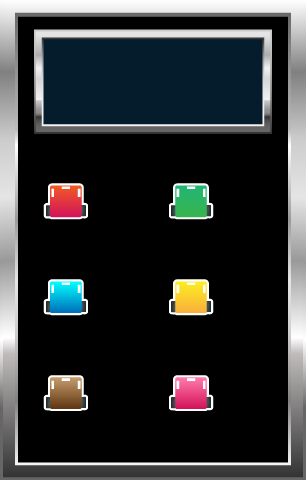
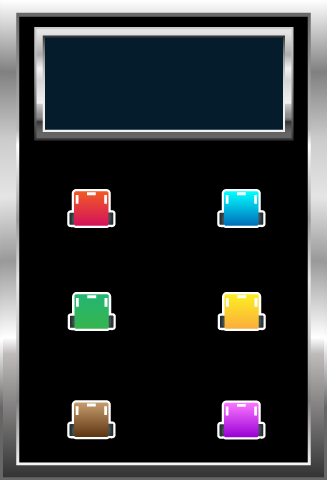
遊戲畫面調整 更新6P圖片

diff --git a/src/MazeCar.py b/src/MazeCar.py
@@ -97,7 +97,7 @@ class MazeCar(PaiaGame):
         game_info["map_height"] = self.game_mode.map.tileHeight * 20
         info_path = path.join(ASSET_IMAGE_DIR, INFO_NAME)
         info_url = INFO_URL
-        game_info["assets"].append(create_asset_init_data("info", 306, 480, info_path, info_url))
+        game_info["assets"].append(create_asset_init_data("info", 327, 480, info_path, info_url))
         logo_path = path.join(ASSET_IMAGE_DIR, LOGO)
         logo_url = LOGO_URL
         game_info["assets"].append(create_asset_init_data("logo", 40, 40, logo_path, logo_url))
@@ -160,11 +160,11 @@ class MazeCar(PaiaGame):
         #                                                      WIDTH - TILE_LEFTTOP[0] - TILE_WIDTH, HEIGHT, "#6f0000"))
         # game_progress["toggle"].append(create_rect_view_data("rect", 0, TILE_LEFTTOP[1] + TILE_HEIGHT,
         #                                                      WIDTH, HEIGHT, "#6f0000"))
-        game_progress["toggle"].append(create_image_view_data("tmf_logo", 590, 510, 200, 50))
+        # game_progress["toggle"].append(create_image_view_data("tmf_logo", 590, 510, 200, 50))
         p = self.game_mode.trnsfer_box2d_to_pygame((0, 0))
         game_progress["object_list"].append(create_rect_view_data("rect", p[0], p[1], 10, 10, "#356425"))
         # info
-        game_progress["toggle"].append(create_image_view_data("info", 535, 40, 306, 480))
+        game_progress["toggle"].append(create_image_view_data("info", 525, 40, 327, 480))
         # car
         for car in self.game_mode.car_info:
             game_progress["object_list"].append(
@@ -173,26 +173,35 @@ class MazeCar(PaiaGame):
             )
 
         # text
-        game_progress["toggle"].append(create_text_view_data(f"{self.frame_count} frames", 645, 100, WHITE))
+        game_progress["toggle"].append(create_text_view_data("{0:05d} frames".format(self.frame_count), 583, 100, WHITE, font_style="36px Arial"))
         for car in self.game_mode.car_info:
             if car["id"] % 2 == 0:
-                x = 630
+                x = 650
             else:
-                x = 760
+                x = 800
 
-            if car["status"]:
+            if car["is_running"]:
                 game_progress["toggle"].append(
-                    create_text_view_data("L:" + str(car["l_sensor_value"]["distance"]) + "cm", x,
-                                          178 + 20 + 94 * (car["id"] // 2), "#FFFF00",
+                    create_text_view_data("{:04.1f}".format(car["l_sensor_value"]["distance"]), x-88,
+                                          178 + 60 + 105 * (car["id"] // 2), "#FFFF00",
                                           "15px Arial"))
                 game_progress["toggle"].append(
-                    create_text_view_data("F:" + str(car["f_sensor_value"]["distance"]) + "cm", x,
-                                          178 + 40 + 94 * (car["id"] // 2), "#FF0000",
+                    create_text_view_data("{:04.1f}".format(car["f_sensor_value"]["distance"]), x-48,
+                                          178 + 28 + 105 * (car["id"] // 2), "#FF0000",
                                           "15px Arial"))
                 game_progress["toggle"].append(
-                    create_text_view_data("R:" + str(car["r_sensor_value"]["distance"]) + "cm", x,
-                                          178 + 60 + 94 * (car["id"] // 2), "#21A1F1",
+                    create_text_view_data("{:04.1f}".format(car["r_sensor_value"]["distance"]), x,
+                                          178 + 60 + 105 * (car["id"] // 2), "#21A1F1",
                                           "15px Arial"))
+                if car["r_t_sensor_value"]["distance"]!=-1 and car["l_t_sensor_value"]["distance"]!=-1:
+                    game_progress["toggle"].append(
+                        create_text_view_data("{:04.1f}".format(car["r_t_sensor_value"]["distance"]), x,
+                                              178 + 30 + 105 * (car["id"] // 2), "#21A1F1",
+                                              "15px Arial"))
+                    game_progress["toggle"].append(
+                        create_text_view_data("{:04.1f}".format(car["l_t_sensor_value"]["distance"]), x-88,
+                                              178 + 30 + 105 * (car["id"] // 2), "#FFFF00",
+                                              "15px Arial"))
                 game_progress["object_list"].append(
                     create_line_view_data("l_sensor", car["center"][0], car["center"][1],
                                           self.trnsfer_box2d_to_pygame(car["l_sensor_value"]["coordinate"])[0],
@@ -221,9 +230,9 @@ class MazeCar(PaiaGame):
                                           self.trnsfer_box2d_to_pygame(car["f_sensor_value"]["coordinate"])[1],
                                           "#FF0000", 5))
             else:
-                game_progress["toggle"].append(create_text_view_data(str(car["end_frame"]) + "frame",
-                                                                     x, 178 + 40 + 94 * (car["id"] // 2), "#FFFFFF",
-                                                                     "15px Arial"))
+                game_progress["toggle"].append(create_text_view_data("{0:05d} frames".format(car["end_frame"]),
+                                                                     x-48, 178 + 30 + 105 * (car["id"] // 2), "#FFFFFF",
+                                                                     "16px Arial"))
 
         return game_progress
 

diff --git a/src/game_object_data.py b/src/game_object_data.py
@@ -26,29 +26,6 @@ def get_progress_data(game_mode):
         "game_sys_info": {}
     }
 
-    # try:
-    #     wall_vertices = []
-    #     for wall in game_mode.walls:
-    #         vertices = [(wall.body.transform * v) for v in wall.box.shape.vertices]
-    #         vertices = [game_mode.trnsfer_box2d_to_pygame(v) for v in vertices]
-    #         game_progress["game_object_list"].append(get_polygon_object("wall", vertices, "#ffffff"))
-    # except Exception:
-    #     pass
-    #
-    # try:
-    #     game_progress["game_object_list"].append(get_image_object("logo", (game_mode.end_point.rect.x, game_mode.end_point.rect.y),
-    #                                                               50, 50))
-    # except Exception:
-    #     pass
-
-    # game_progress["background"].append(get_rect_object("rect", (0, 0), TILE_LEFTTOP[0], HEIGHT, "#000000"))
-    # game_progress["background"].append(get_rect_object("rect", (0, 0), WIDTH, TILE_LEFTTOP[1], "#000000"))
-    # game_progress["background"].append(get_rect_object("rect", (TILE_LEFTTOP[0] + TILE_WIDTH, 0),
-    #                                                          WIDTH - TILE_LEFTTOP[0] - TILE_WIDTH, HEIGHT, "#000000"))
-    # game_progress["background"].append(get_rect_object("rect", (0, TILE_LEFTTOP[1] + TILE_HEIGHT),
-    #                                                          WIDTH, HEIGHT, "#000000"))
-    # game_progress["background"].append(get_image_object("info", (507, 20), 306, 480))
-
     for car in game_mode.car_info:
         if car["id"] % 2 == 0:
             x = 600
@@ -185,6 +162,7 @@ def get_scene_init_sample_data() -> dict:
             # "audios": {}
             }
 
+
 def get_image_object(image_id, coordinate, width, height, angle=0):
     """
     這是一個用來繪製圖片的資料格式，
@@ -201,6 +179,7 @@ def get_image_object(image_id, coordinate, width, height, angle=0):
             "height": height,
             "image_id": image_id,
             "angle": int(angle)}
+
 
 def get_rect_object(name, coordinate, width, height, color, angle=0):
     """
@@ -223,6 +202,7 @@ def get_rect_object(name, coordinate, width, height, color, angle=0):
             "color": color
             }
 
+
 def get_line_object(name, dot1, dot2, color, width=2):
     """
     這是一個用來繪製矩形的資料格式，
@@ -244,6 +224,7 @@ def get_line_object(name, dot1, dot2, color, width=2):
             "color": color
             }
 
+
 def get_polygon_object(name, points, color):
     """
     這是一個用來繪製多邊形的資料格式，
@@ -258,6 +239,7 @@ def get_polygon_object(name, points, color):
             "color": color,
             "points": vertices
             }
+
 
 def get_dummy_text(content, color, coordinate, font_style="24px Arial"):
     return {
@@ -281,6 +263,7 @@ def get_dummy_progress_data():
     #               }, {}, {}],
     #         "game_sys_info": {}
     #         }
+
 
 def get_dummy_result_data():
     return {

diff --git a/main.py b/main.py
@@ -12,7 +12,7 @@ MOVE_MAZE = "MOVE_MAZE"
 if __name__ == '__main__':
     pygame.init()
     # game = MazeCar.MazeCar(6, "MAZE", 20, 10000, 3, "off")
-    game = MazeCar.MazeCar(user_num=1, game_type=MOVE_MAZE, map=5, time=2000, sensor=3, sound=SOUND_OFF)
+    game = MazeCar.MazeCar(user_num=6, game_type=MOVE_MAZE, map=5, time=2000, sensor=3, sound=SOUND_OFF)
     # game = MazeCar.MazeCar(2, "PRACTICE", 12, 10000, 5, "off")
     scene_init_info_dict = game.get_scene_init_data()
     game_view = PygameView(scene_init_info_dict)

diff --git a/src/car.py b/src/car.py
@@ -78,6 +78,7 @@ class Car(pygame.sprite.Sprite):
     def get_info(self):
         self.car_info = {"id": self.car_no,
                          "status":self.status,
+                         "is_running":self.is_running,
                          "size": self.size,  # pygame
                          "topleft": self.rect.topleft,  # pygame
                          "center":self.rect.center,
